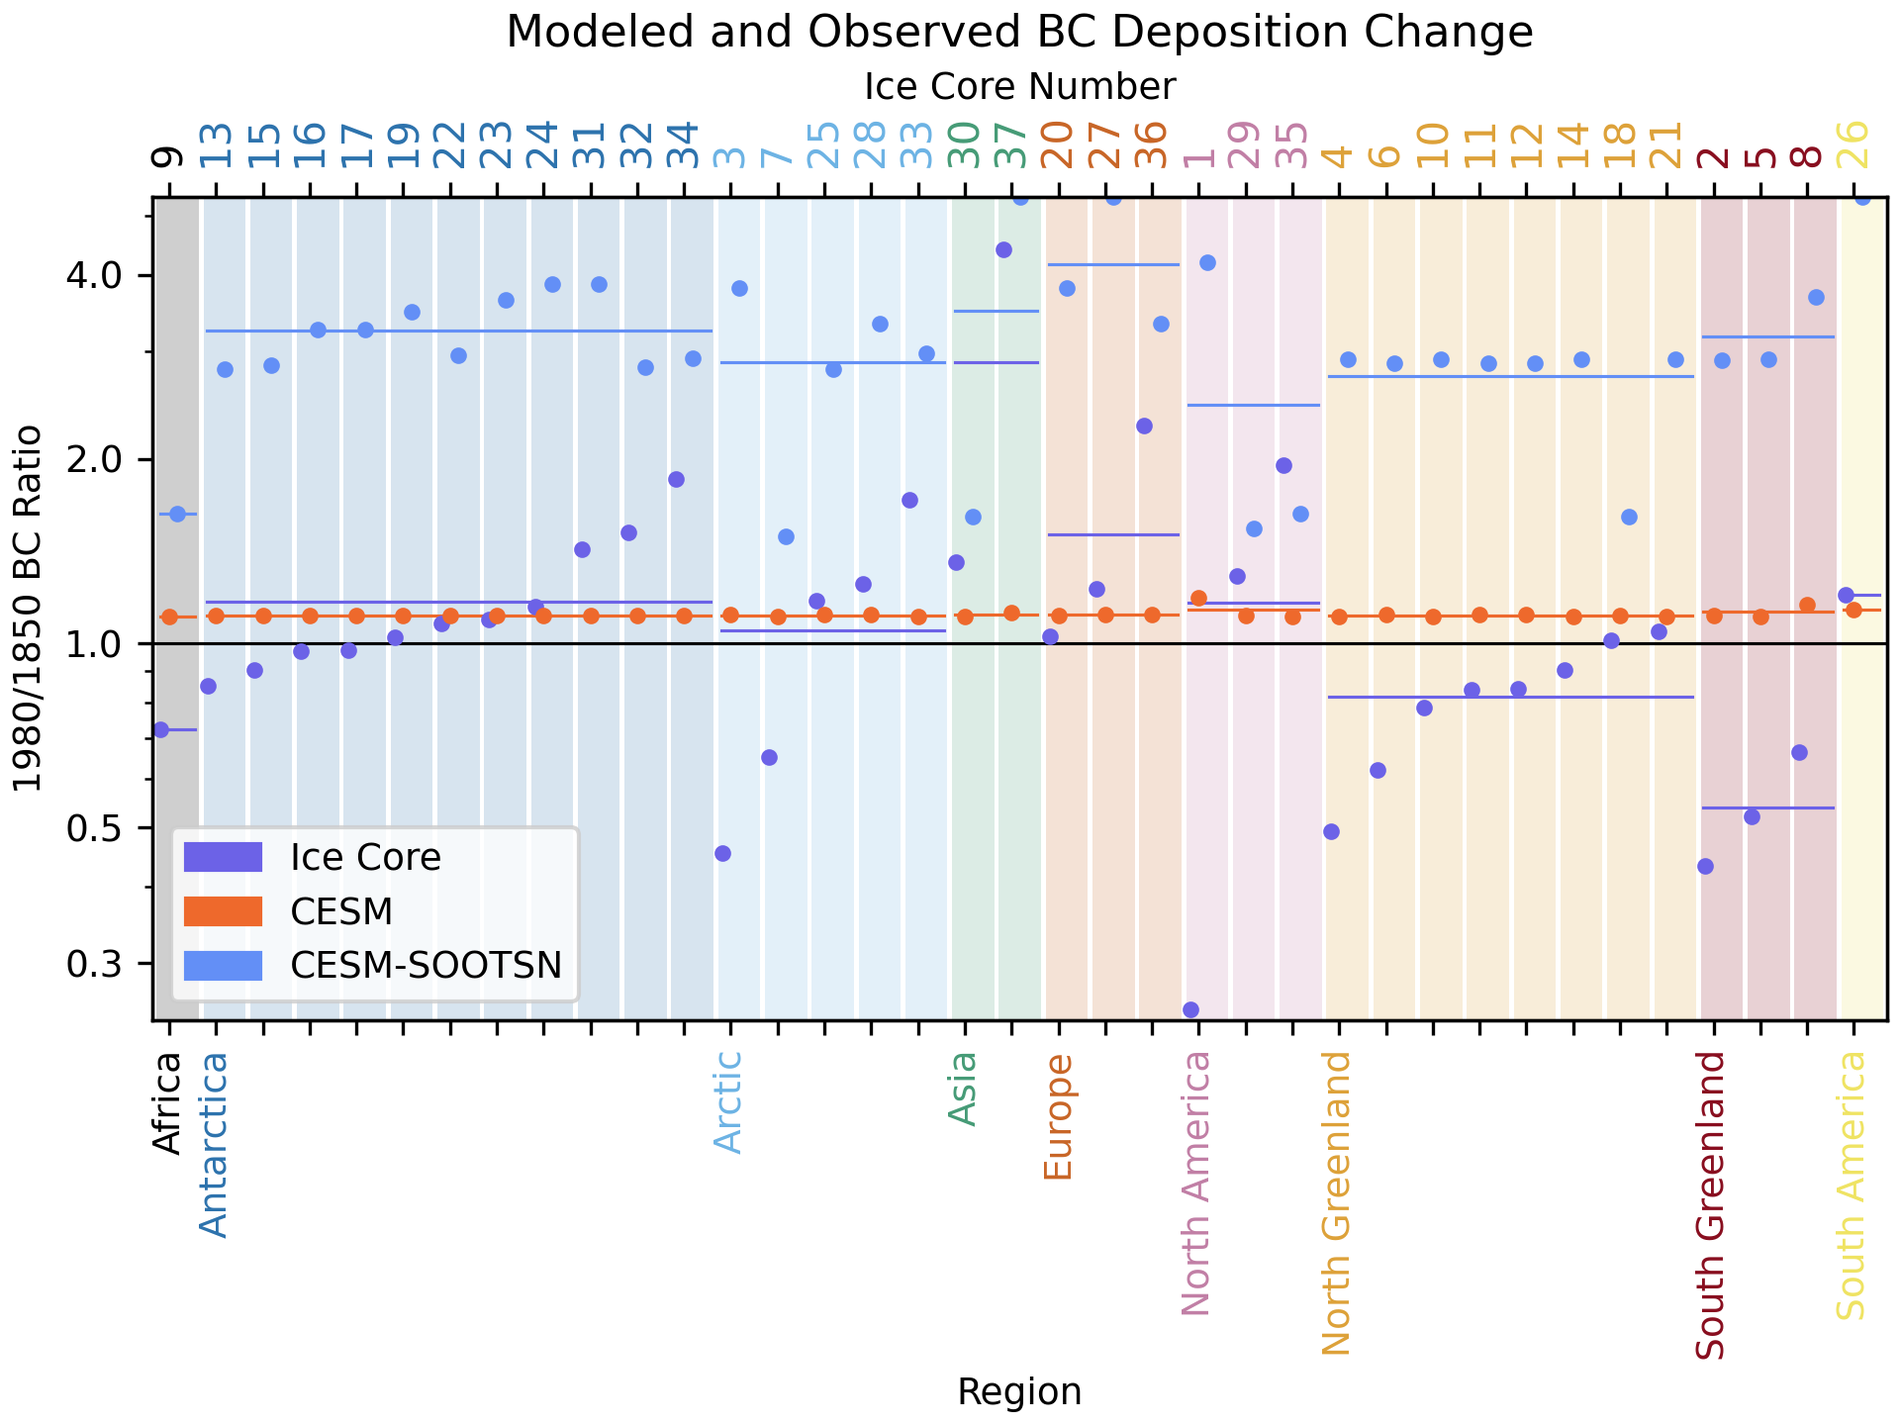
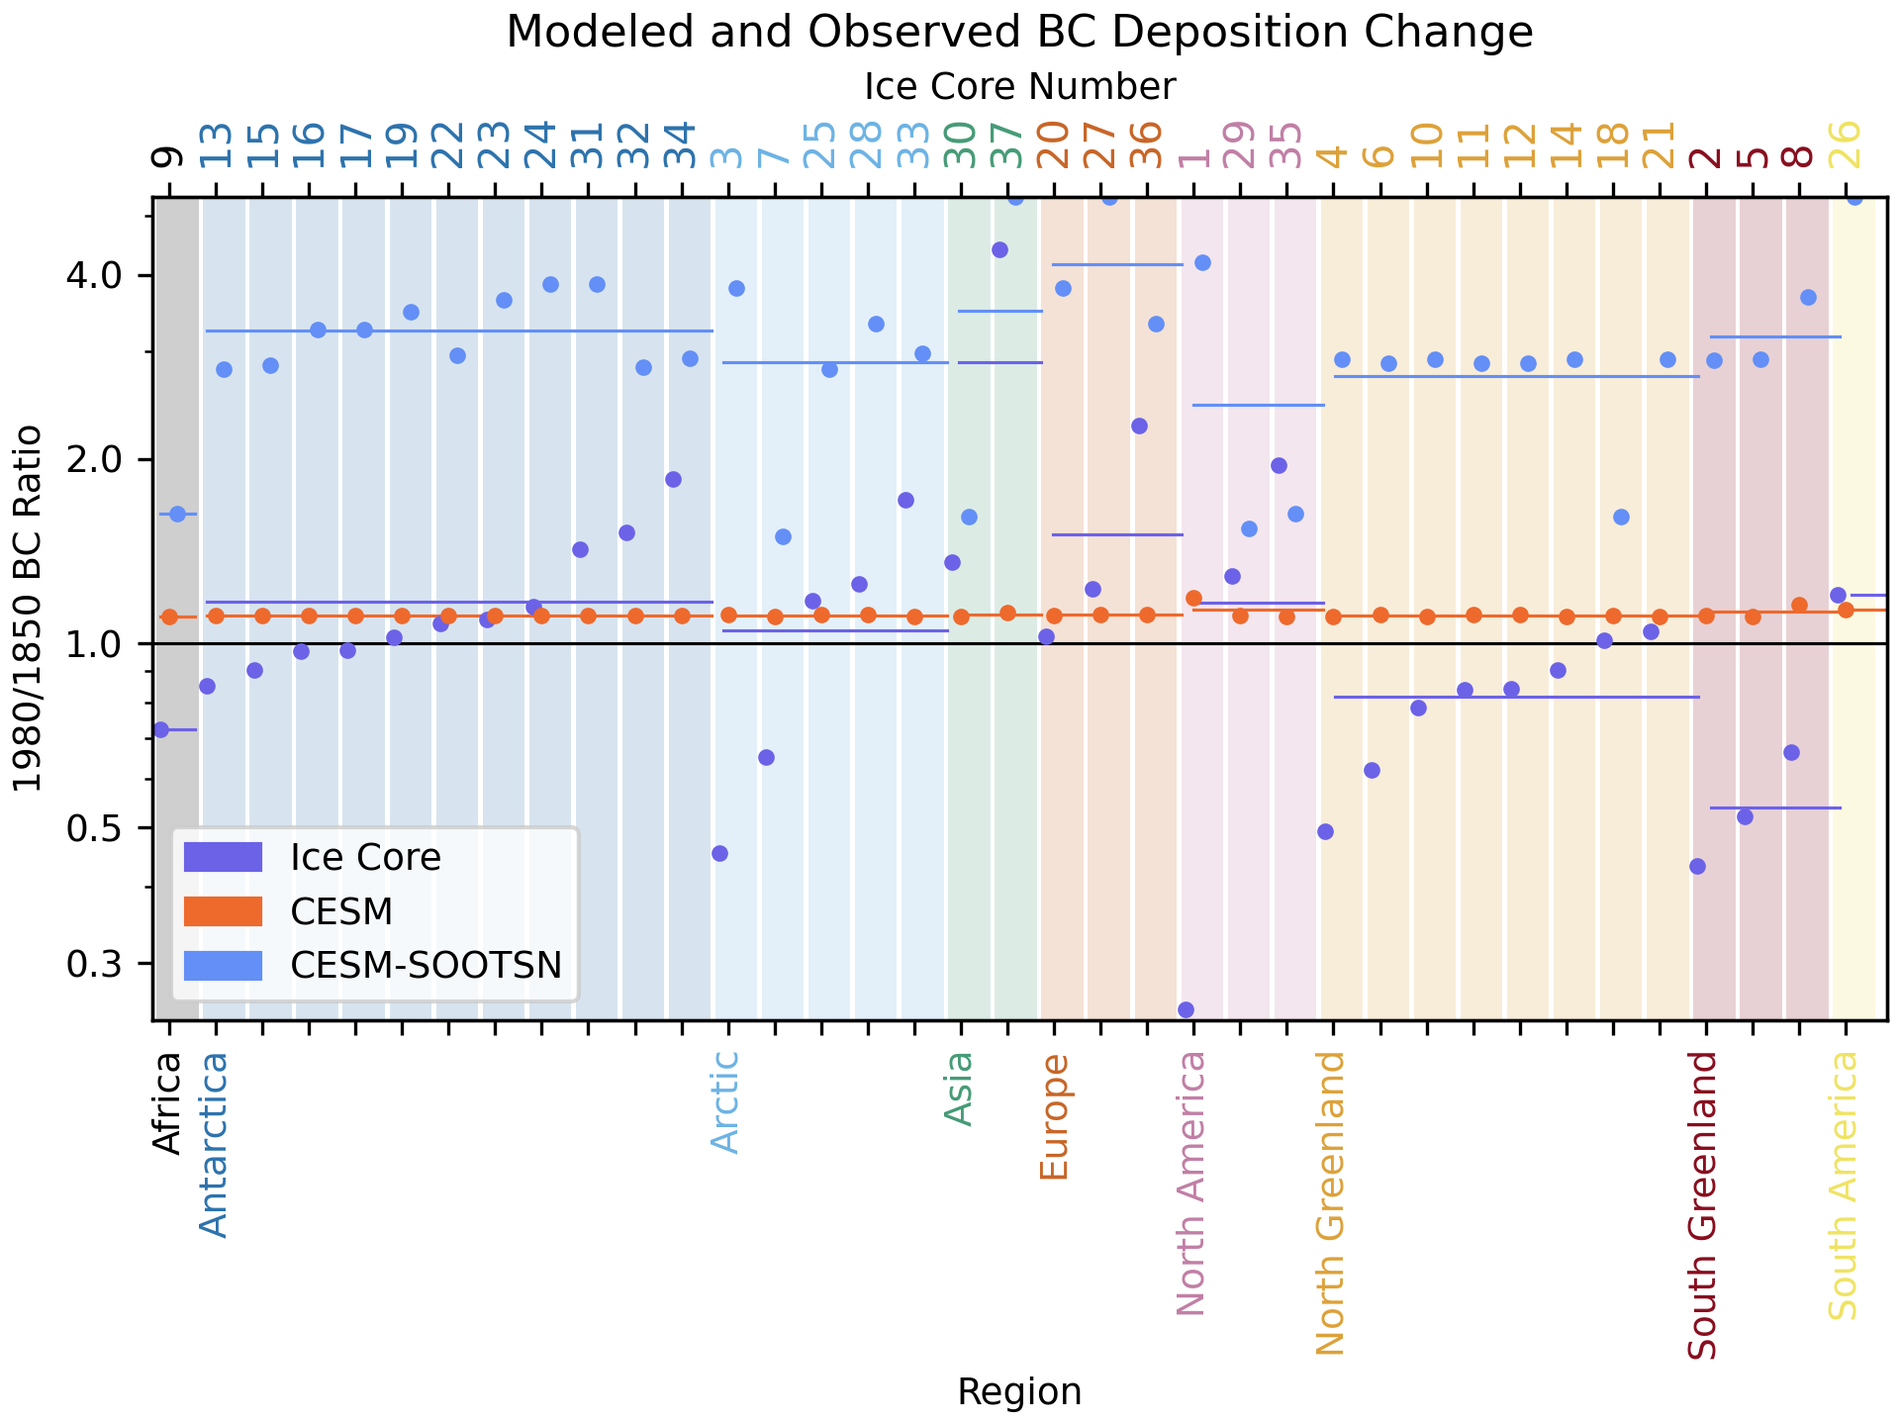
var comparison figure

Changed region(s): [[0.1875, 0.0625, 1.0, 0.9688], [0.9688, 0.875, 1.0, 0.9375], [0.625, 0.875, 0.6562, 0.9062]]

diff --git a/pi-pd.py b/pi-pd.py
@@ -70,7 +70,7 @@ patches = { #Okabe and Ito colorblind pallet
     'Greenland': (-55, s_g, 35, 90 - s_g, '#880D1E'),
     'East Antarctica': (-180, -60, 180, -30, '#000000'),
     'West Antarctica': (0, -60, 180, -30, '#6CB3E4'),'''
-model_colors = {'CESM': '#EE692C', 'CMIP6': '#CC397C', 'Ice Core': '#6C62E7', 'CESM-SOOTSN': '#638FF6', 'LENS': '#F5B341'}
+model_colors = {'CESM': '#EE692C', 'CMIP6': '#CC397C', 'Ice Core': '#6C62E7', 'CESM-SOOTSN': '#638FF6', 'LENS': '#F5B341', 'loadbc': '#CC397C'}
 
 def within_patch(lat, lon, patch, name):
     lat_min, lat_max, lon_min, lon_max = t.patch_min_max(patch)
@@ -101,7 +101,7 @@ def divide_pd_pi(p_d, p_i):
         model = models[i]
         if model in p_d.index and model in p_i.index:
             df.loc[i] = [model] + list(p_d.loc[model].div(p_i.loc[model]))
-    return df
+    return df.drop(['model'], axis=1)
 
 #alternative workflow cmip6 data:
 if system == 'Linux':
@@ -437,7 +437,7 @@ elif (inp == 'l'): #Lens data
             'color': model_colors['CESM'],
             },
         'CMIP6': {
-            'dataset': pd.read_csv(os.path.join(os.getcwd(), 'data', 'model-ice-depo', 'cmip6', 'alt-method.csv')),#divide_pd_pi(pd.read_csv('data/model-ice-depo/cmip6/binned-pd.csv'), pd.read_csv('data/model-ice-depo/cmip6/binned-pi.csv')).mean(axis=0),
+            'dataset': divide_pd_pi(pd.read_csv('data/model-ice-depo/cmip6/binned-pd.csv'), pd.read_csv('data/model-ice-depo/cmip6/binned-pi.csv')).mean(axis=0), #pd.read_csv(os.path.join(os.getcwd(), 'data', 'model-ice-depo', 'cmip6', 'alt-method.csv')),
             'data': {'ratios': None, 'means': None, 'stds': None},
             'color': model_colors['CMIP6'],
             },
@@ -450,6 +450,11 @@ elif (inp == 'l'): #Lens data
             'dataset': divide_pd_pi(pd.read_csv('data/model-ice-depo/cesm-sootsn/pd.csv'), pd.read_csv('data/model-ice-depo/cesm-sootsn/pi.csv')).mean(axis=0),
             'data': {'ratios': None, 'means': None, 'stds': None},
             'color': model_colors['CESM-SOOTSN'],
+            },
+        'loadbc': {
+            'dataset': divide_pd_pi(pd.read_csv('data/model-ice-depo/loadbc/binned-pd.csv'), pd.read_csv('data/model-ice-depo/loadbc/binned-pi.csv')).mean(axis=0),
+            'data': {'ratios': None, 'means': None, 'stds': None},
+            'color': model_colors['CMIP6'],
             }
     }
     '''models = {
@@ -519,7 +524,7 @@ elif (inp == 'l'): #Lens data
     models_colors = {key: value['color'] for key, value in models.items()}
     n_models = len(list(models))
     dont_use = dont_use.union({'model number', 'Unnamed: 0', 'BC_vars', 'year'})
-    bar_lables = []
+    bar_labels = []
     bar_means = {key: [] for key in models.keys()}
     bar_stds = {key: [] for key in models.keys()}
     distribution_map = {}
@@ -542,7 +547,7 @@ elif (inp == 'l'): #Lens data
                 ice_mean = main_dict[col_name]['ratio']
                 bar_means[model_key].append(ice_mean)
                 #ice_based_dists[col_name] = {'PD': lens_pd[col_name], 'PI': lens_pi[col_name]}
-                bar_lables.append(filename_region[col_name] + '-' + str(filename_index[col_name]).zfill(2))
+                bar_labels.append(filename_region[col_name] + '-' + str(filename_index[col_name]).zfill(2))
                 bar_stds[model_key].append(0)
             else:
                 model_ratios = ds[col_name]
@@ -555,13 +560,13 @@ elif (inp == 'l'): #Lens data
     #resort everything by region
     print('ice core mean', np.mean(bar_means['Ice Core']))
     print(np.mean([np.mean(bar_means['CMIP6']), np.mean(bar_means['LENS']), np.mean(bar_means['CESM'])]))
-    bar_lables, filenames, bar_means['LENS'], bar_means['Ice Core'], bar_means['CESM'], bar_means['CMIP6'], bar_stds['LENS'], bar_stds['Ice Core'], bar_stds['CESM'], bar_stds['CMIP6'], bar_means['CESM-SOOTSN'], bar_stds['CESM-SOOTSN'], background_colors = zip(*sorted(list(zip(bar_lables, filenames, bar_means['LENS'], bar_means['Ice Core'], bar_means['CESM'], bar_means['CMIP6'], bar_stds['LENS'], bar_stds['Ice Core'], bar_stds['CESM'], bar_stds['CMIP6'], bar_means['CESM-SOOTSN'], bar_stds['CESM-SOOTSN'], background_colors))))
-    #bar_lables, bar_means['Ice Core'], bar_stds['Ice Core'], bar_means['LENS-S1'], bar_stds['LENS-S1'], bar_means['LENS-S4'], bar_stds['LENS-S4'], bar_means['LENS-S8'], bar_stds['LENS-S8'], background_colors = zip(*sorted(list(zip(bar_lables, bar_means['Ice Core'], bar_stds['Ice Core'], bar_means['LENS-S1'], bar_stds['LENS-S1'], bar_means['LENS-S4'], bar_stds['LENS-S4'], bar_means['LENS-S8'], bar_stds['LENS-S8'], background_colors))))
-    #bar_lables, bar_means['Ice Core'], bar_stds['Ice Core'], bar_means['LENS-LV30'], bar_stds['LENS-LV30'], bar_means['LENS-LV29'], bar_stds['LENS-LV29'], bar_means['LENS-LV28'], bar_stds['LENS-LV28'], background_colors = zip(*sorted(list(zip(bar_lables, bar_means['Ice Core'], bar_stds['Ice Core'], bar_means['LENS-LV30'], bar_stds['LENS-LV30'], bar_means['LENS-LV29'], bar_stds['LENS-LV29'], bar_means['LENS-LV28'], bar_stds['LENS-LV28'], background_colors))))
-    #bar_lables, bar_means['CMIP6 PD'], bar_stds['CMIP6 PD'], bar_means['CMIP6 PI'], bar_stds['CMIP6 PI'], background_colors = zip(*sorted(list(zip(bar_lables, bar_means['CMIP6 PD'], bar_stds['CMIP6 PD'], bar_means['CMIP6 PI'], bar_stds['CMIP6 PI'], background_colors))))
+    bar_labels, filenames, bar_means['LENS'], bar_means['Ice Core'], bar_means['CESM'], bar_means['CMIP6'], bar_stds['LENS'], bar_stds['Ice Core'], bar_stds['CESM'], bar_stds['CMIP6'], bar_means['CESM-SOOTSN'], bar_stds['CESM-SOOTSN'], background_colors = zip(*sorted(list(zip(bar_labels, filenames, bar_means['LENS'], bar_means['Ice Core'], bar_means['CESM'], bar_means['CMIP6'], bar_stds['LENS'], bar_stds['Ice Core'], bar_stds['CESM'], bar_stds['CMIP6'], bar_means['CESM-SOOTSN'], bar_stds['CESM-SOOTSN'], background_colors))))
+    #bar_labels, bar_means['Ice Core'], bar_stds['Ice Core'], bar_means['LENS-S1'], bar_stds['LENS-S1'], bar_means['LENS-S4'], bar_stds['LENS-S4'], bar_means['LENS-S8'], bar_stds['LENS-S8'], background_colors = zip(*sorted(list(zip(bar_labels, bar_means['Ice Core'], bar_stds['Ice Core'], bar_means['LENS-S1'], bar_stds['LENS-S1'], bar_means['LENS-S4'], bar_stds['LENS-S4'], bar_means['LENS-S8'], bar_stds['LENS-S8'], background_colors))))
+    #bar_labels, bar_means['Ice Core'], bar_stds['Ice Core'], bar_means['LENS-LV30'], bar_stds['LENS-LV30'], bar_means['LENS-LV29'], bar_stds['LENS-LV29'], bar_means['LENS-LV28'], bar_stds['LENS-LV28'], background_colors = zip(*sorted(list(zip(bar_labels, bar_means['Ice Core'], bar_stds['Ice Core'], bar_means['LENS-LV30'], bar_stds['LENS-LV30'], bar_means['LENS-LV29'], bar_stds['LENS-LV29'], bar_means['LENS-LV28'], bar_stds['LENS-LV28'], background_colors))))
+    #bar_labels, bar_means['CMIP6 PD'], bar_stds['CMIP6 PD'], bar_means['CMIP6 PI'], bar_stds['CMIP6 PI'], background_colors = zip(*sorted(list(zip(bar_labels, bar_means['CMIP6 PD'], bar_stds['CMIP6 PD'], bar_means['CMIP6 PI'], bar_stds['CMIP6 PI'], background_colors))))
     #Remove Duplicate Region Labels
-    region_lables = list(map(lambda x: x.split('-')[0], bar_lables))
-    if len(sys.argv) == 2:
+    region_lables = list(map(lambda x: x.split('-')[0], bar_labels))
+    if len(sys.argv) == 2 or sys.argv[2] == 'var':
         transition_indexes = []
         csv_dict = []
         models_in_csv = set(['Ice Core'])
@@ -575,9 +580,10 @@ elif (inp == 'l'): #Lens data
                 transition_indexes.append(i)
         transition_indexes.append(transition_indexes[-1] + 1)
         #plot mean bars
-        x = np.arange(len(bar_lables))  # the label locations
+        x = np.arange(len(bar_labels))  # the label locations
         rcParams.update({'font.size': 9})
         #divide data for each subfigure
+        #sub_figures = [dict([['Ice Core', bar_means['Ice Core']], ['loadbc', bar_means['loadbc']], ['CESM', bar_means['CESM']], ['CESM-SOOTSN', bar_means['CESM-SOOTSN']], ['+2', 0]])]
         sub_figures = [
             dict(
                 [['Ice Core', bar_means['Ice Core']], ['LENS', bar_means['LENS']], ['+1', 0], ['+2', 0], ['+3', 0]],
@@ -587,6 +593,9 @@ elif (inp == 'l'): #Lens data
                 ),
             dict(
                 [['Ice Core', bar_means['Ice Core']], ['CESM', bar_means['CESM']], ['CESM-SOOTSN', bar_means['CESM-SOOTSN']], ['+1', 0], ['+2', 0]],
+                ),
+            dict(
+                [['Ice Core', bar_means['Ice Core']], ['loadbc', bar_means['loadbc']], ['CESM', bar_means['CESM']], ['CESM-SOOTSN', bar_means['CESM-SOOTSN']], ['+2', 0]],
                 )
         ]
         #plot rest of data
@@ -620,9 +629,9 @@ elif (inp == 'l'): #Lens data
                 for i in range(len(transition_indexes) - 1):
                     trans_i = transition_indexes[i]
                     next_i = transition_indexes[i + 1]
-                    region = bar_lables[trans_i].split('-')[0]
-                    x_start = (plt.getp(bars[trans_i], 'x') - offset + width + 0.07 - (trans_i / len(bar_lables)) * (1 - width * n_models)) / len(bar_lables)
-                    x_end   = x_start + ((next_i - trans_i) - width - 0.07) / len(bar_lables) #(x_start + width * 4 * (next_i - trans_i)) / 36
+                    region = bar_labels[trans_i].split('-')[0]
+                    x_start = (plt.getp(bars[trans_i], 'x') - offset + width + 0.07 - (trans_i / len(bar_labels)) * (1 - width * n_models)) / len(bar_labels)
+                    x_end   = x_start + ((next_i - trans_i) - width - 0.07) / len(bar_labels) #(x_start + width * 4 * (next_i - trans_i)) / 36
                     plt.axhline(np.mean(bar_means[model_key][trans_i:next_i]), c=color, xmin=x_start, xmax=x_end, linewidth=0.75)
                     row[region] = str(round(np.mean(bar_means[model_key][trans_i:next_i]) - np.mean(bar_means['Ice Core'][trans_i:next_i]), 2))
                 if model_key not in models_in_csv:
@@ -644,7 +653,7 @@ elif (inp == 'l'): #Lens data
             ax2 = ax.twiny()
             plt.xlim([-width, x[-1] + width * n_models])
             plt.ylim([min_h - 0.01, max_lens_h])
-            ax2.set_xticks(x + width, [int(label[len(label)-2:len(label)]) for label in bar_lables], fontsize=10)
+            ax2.set_xticks(x + width, [int(label[len(label)-2:len(label)]) for label in bar_labels], fontsize=10)
             plt.xticks(rotation=90)
             ax2.set_xlabel('Ice Core Number')
             ax2.set_yscale('log')
@@ -663,15 +672,15 @@ elif (inp == 'l'): #Lens data
                     del new_model_colors[bad_key]
             for i in range(len(list(new_model_colors.items()))):
                 key, color = list(new_model_colors.items())[i]
-                leg.legendHandles[i].set_color(color)
+                leg.legend_handles[i].set_color(color)
             for a in plt.gcf().get_axes():
-                for i in range(len(bar_lables)):
-                    filename = bar_lables[i].split('-')[0]
+                for i in range(len(bar_labels)):
+                    filename = bar_labels[i].split('-')[0]
                     color = patches[filename][-1]
                     a.get_xticklabels()[i].set_color(color)
             plt.savefig('figures/ice-cores/test4' + list(sub.keys())[1] + '.png', dpi=300)
         plt.close()
-        #save to csv
+    if sys.argv[2] == 'test-table-color':
         #Model - Ice Core PD/PI Mean Regional Difference
         fields = [region for region in csv_dict[0].keys()]
         write_path = 'data/model-ice-depo/regional-model-diffs.csv'
@@ -697,6 +706,76 @@ elif (inp == 'l'): #Lens data
         table.auto_set_font_size(False)
         table.set_fontsize(12)
         plt.savefig('figures/ice-cores/test-table-color.png', bbox_inches='tight', pad_inches=0.0, dpi=300)
+        plt.close()
+    #plot variable figure
+    if sys.argv[2] == 'var':
+        print('var comparison boxplot')
+        region2region = {'North Pole': 'Arctic', 'South Pole': 'Antarctica', 'Rest': 'Africa'}
+        sub = dict(
+            [['Ice Core', bar_means['Ice Core']],
+                ['loadbc', bar_means['loadbc']],
+                ['CESM', bar_means['CESM']],
+                ['CESM-SOOTSN', bar_means['CESM-SOOTSN']]]
+            )
+        #get regional means
+        new_regions = {
+            'North Pole': ['North Greenland', 'South Greenland', 'Arctic'],
+            'South Pole': ['Antarctica'],
+            'Rest': ['Africa', 'Asia', 'Europe', 'North America', 'South ZAmerica'],
+            }
+        old2new = t.invert_dict_list(new_regions)
+        rdf = pd.DataFrame(columns=['label'], data=bar_labels)
+        rdf.insert(len(rdf.columns), 'region', [s.split('-')[0] for s in bar_labels])
+        [rdf.insert(len(rdf.columns), model_key, bar_means[model_key]) for model_key in sub.keys()]
+        rdf['region'] = rdf['region'].apply(lambda x: old2new[x])
+        #organize into final datastruct
+        data = {key: [] for key in sub.keys()}
+        for model in data.keys():
+            for region in new_regions.keys():
+                data[model].append(rdf[rdf['region'] == region][model])
+        #plot
+        fig, ax = plt.subplots(layout='constrained')
+        x = np.arange(len(list(new_regions.keys())))
+        multiplier = 0
+        width = 0.2
+        bar_labels = list(new_regions.keys())
+        bar_colors = [patches[region2region[s]][-1] + '30' for s in bar_labels]
+        #for i in range(3): + (1/3) * i
+        bar_width = 1
+        box_heights = []
+        for model in data.keys():
+            c = model_colors[model]
+            offset = width * multiplier
+            bplot = ax.boxplot(data[model], widths=0.2, positions=x+offset, patch_artist=True, boxprops=dict(facecolor=c, color=c), capprops=dict(color=c), medianprops=dict(color='black'), flierprops=dict(color=c, markerfacecolor=c, markeredgecolor=c, marker= '.'), whiskerprops=dict(color=c))
+            box_heights += [item.get_ydata()[1] for item in bplot['whiskers']]
+            multiplier += 1
+        bars = ax.bar(x + width * 1.5, np.max(box_heights) + 0.1, bar_width, color=bar_colors)
+        ax.set_yscale('log')
+        ax.set_xticks(x + width * 1.5, bar_labels)
+        ax.set_xlim([x[0] + width * 1.5 - bar_width / 2, x[-1] + width * 1.5 + bar_width / 2])
+        ax.set_ylim([0, np.max(box_heights) + 0.1])
+        ax.set_yticks([0.3, 0.5, 1, 2, 4])
+        ax.set_ylabel("1980/1850 Ratio")
+        ax.set_xlabel("Region")
+        ax.get_yaxis().set_major_formatter(ScalarFormatter())
+        #manually setup legend
+        legend_handels = []
+        leg_dict = {'Ice Core': 'Ice Core', 'loadbc': 'loadbc', 'CESM': 'drybc - wetbc', 'CESM-SOOTSN': 'sootsn'}
+        for label in sub.keys():
+            if '+' not in label:
+                legend_handels.append(Patch(label=leg_dict[label]))
+        ax.legend(handles=legend_handels)
+        #manualy change legend colors
+        leg = ax.get_legend()
+        new_model_colors = {k: models_colors[k] for k in list(sub.keys())}
+        for i in range(len(list(new_model_colors.items()))):
+            key, color = list(new_model_colors.items())[i]
+            leg.legend_handles[i].set_color(color)
+        for i in range(len(bar_labels)):
+            color = patches[region2region[bar_labels[i]]][-1]
+            ax.get_xticklabels()[i].set_color(color)
+        plt.savefig('figures/ice-cores/test-var.png', bbox_inches='tight', pad_inches=0.1, dpi=300)
+        plt.close()
     #plot antartica supersets
     elif sys.argv[2] == 'ant':
         #setup east and west
@@ -741,6 +820,17 @@ elif (inp == 'l'): #Lens data
                 plt.hist(new_data[i::2])
                 multiplier += 1
             plt.savefig('figures/ice-cores/test5' + key + '.png', bbox_inches='tight', pad_inches=0.0, dpi=200)
+            plt.close()
+    elif sys.argv[2] == 'scatter':
+        fig, ax = plt.subplots(layout='constrained')
+        slope, intercept, r_value, p_value, std_err = scipy.stats.linregress(bar_means['loadbc'], bar_means['CESM-SOOTSN'])
+        plt.scatter(bar_means['loadbc'], bar_means['CESM-SOOTSN'], color=model_colors['CMIP6'])
+        perfect_x = [x * ax.get_xlim()[1] / 100 for x in range(100)]
+        plt.plot(perfect_x, perfect_x, color='black')
+        plt.xlabel('loadbc pd/pi')
+        plt.ylabel('sootsn pd/pi')
+        plt.title('R^2 = ' + str(r_value**2))
+        plt.savefig('figures/ice-cores/sootsn-loadbc-scatter.png', bbox_inches='tight', pad_inches=0.0, dpi=200)
     #plot distribution bars by model
     '''
     #get lens distributions by model

diff --git a/cmip-bin.py b/cmip-bin.py
@@ -1,9 +1,15 @@
 import pandas as pd
 import numpy as np
 import json
+import sys
 import os
 
-for dir in ['cmip6']:
+#cmip6, loadbc
+if len(sys.argv) < 2:
+    raise Exception('format command as:\npython3 cmip-bin.py <MODEL-ICE-DEPO SUBFOLDER> <...>')
+dirs = sys.argv[1:len(sys.argv)]
+
+for dir in dirs:
     root_path = os.path.join(os.getcwd(), 'data', 'model-ice-depo', dir)
     file_suffix = '-lv30.csv' if dir == 'lens' else '.csv'
     base_model_dict = {}
@@ -17,10 +23,13 @@ for dir in ['cmip6']:
     }
 
     def base_model(model):
-        if 'MIROC6' in model:
-            base_model = 'MIROC'
-        if '-' in model:
-            base_model = model[0:model.index('-')]
+        if dir != 'loadbc':
+            if 'MIROC6' in model:
+                base_model = 'MIROC'
+            if '-' in model:
+                base_model = model[0:model.index('-')]
+            else:
+                base_model = model
         else:
             base_model = model
         if base_model in base_model_dict:

diff --git a/tools.py b/tools.py
@@ -220,3 +220,9 @@ class ToolBox:
         ret = np.cumsum(a, dtype=float)
         ret[n:] = ret[n:] - ret[:-n]
         return ret[n:] / n
+    
+    #for dicts with structure {'k': ['a', 'b', 'c']}
+    def invert_dict_list(self, input_dict):
+        output = {}
+        [output.update(d) for d in [{value: key for value in l} for key, l in input_dict.items()]]
+        return output
